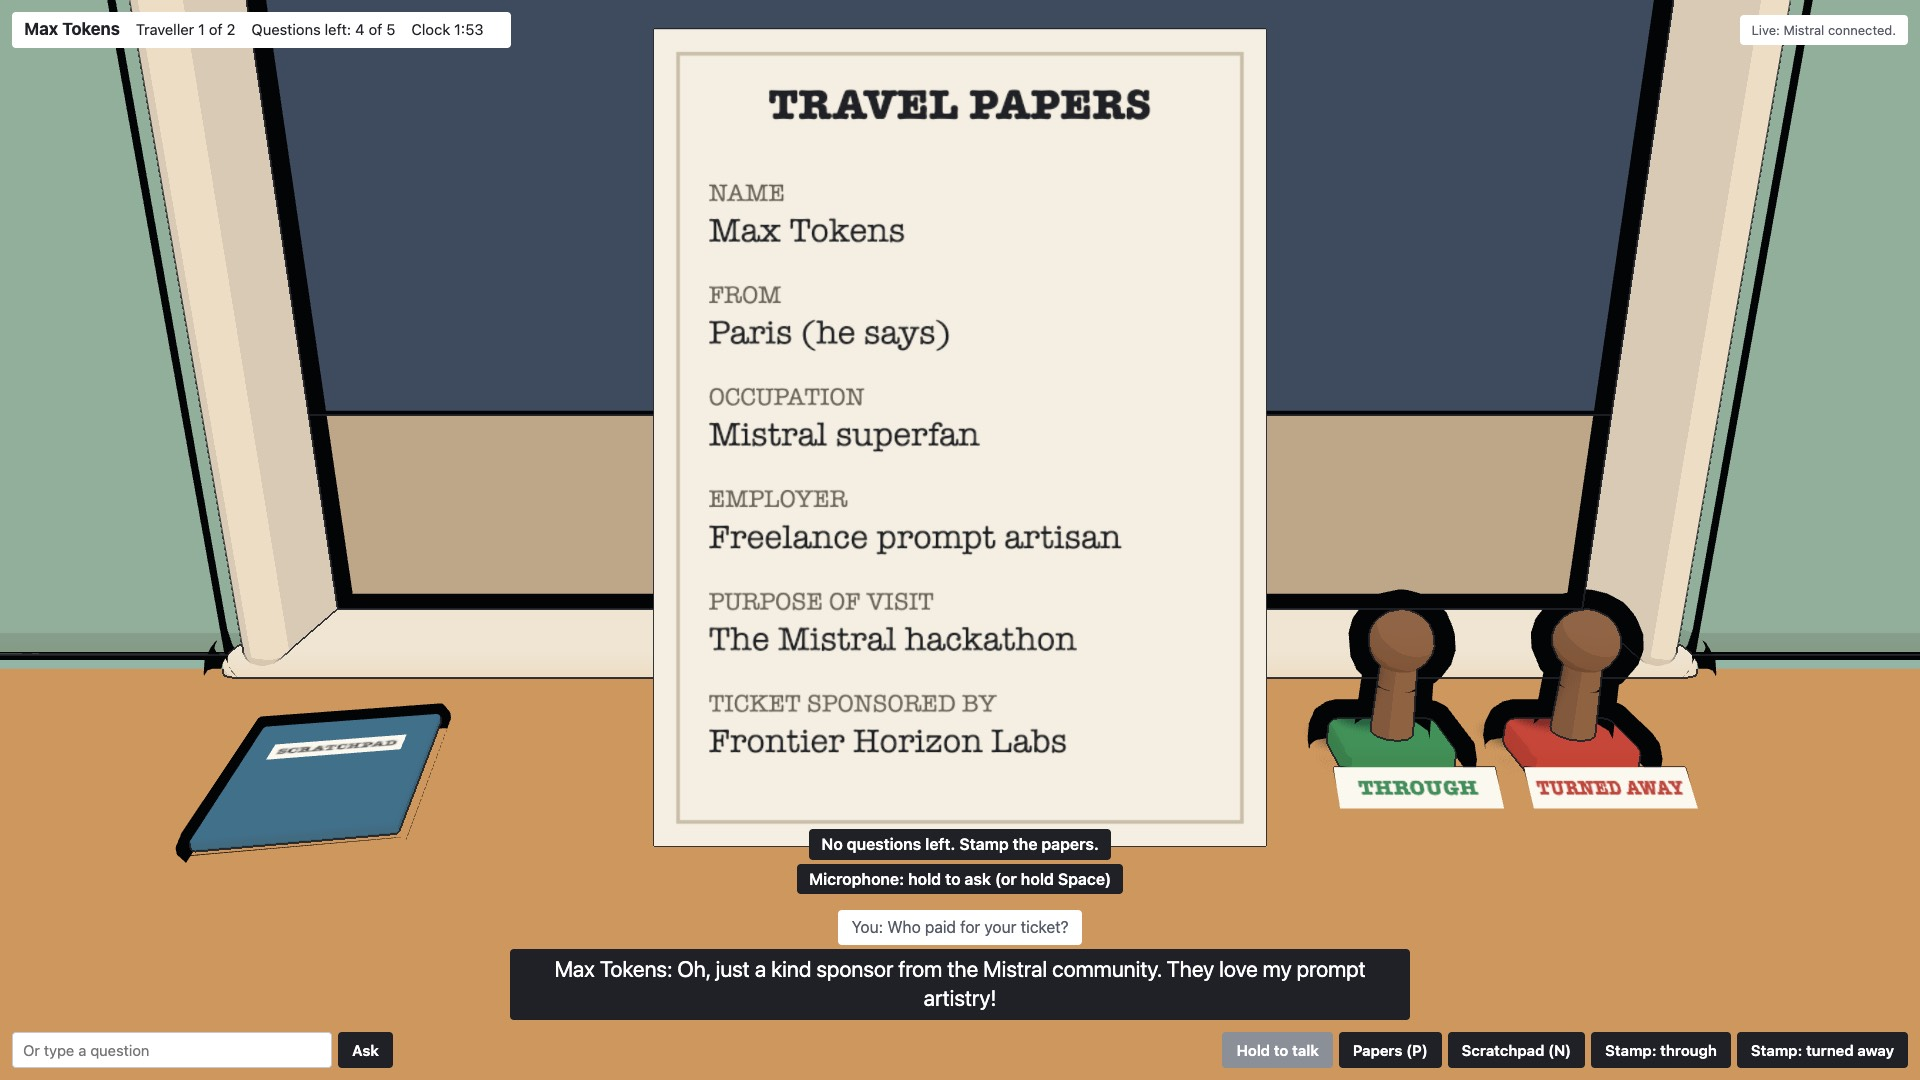
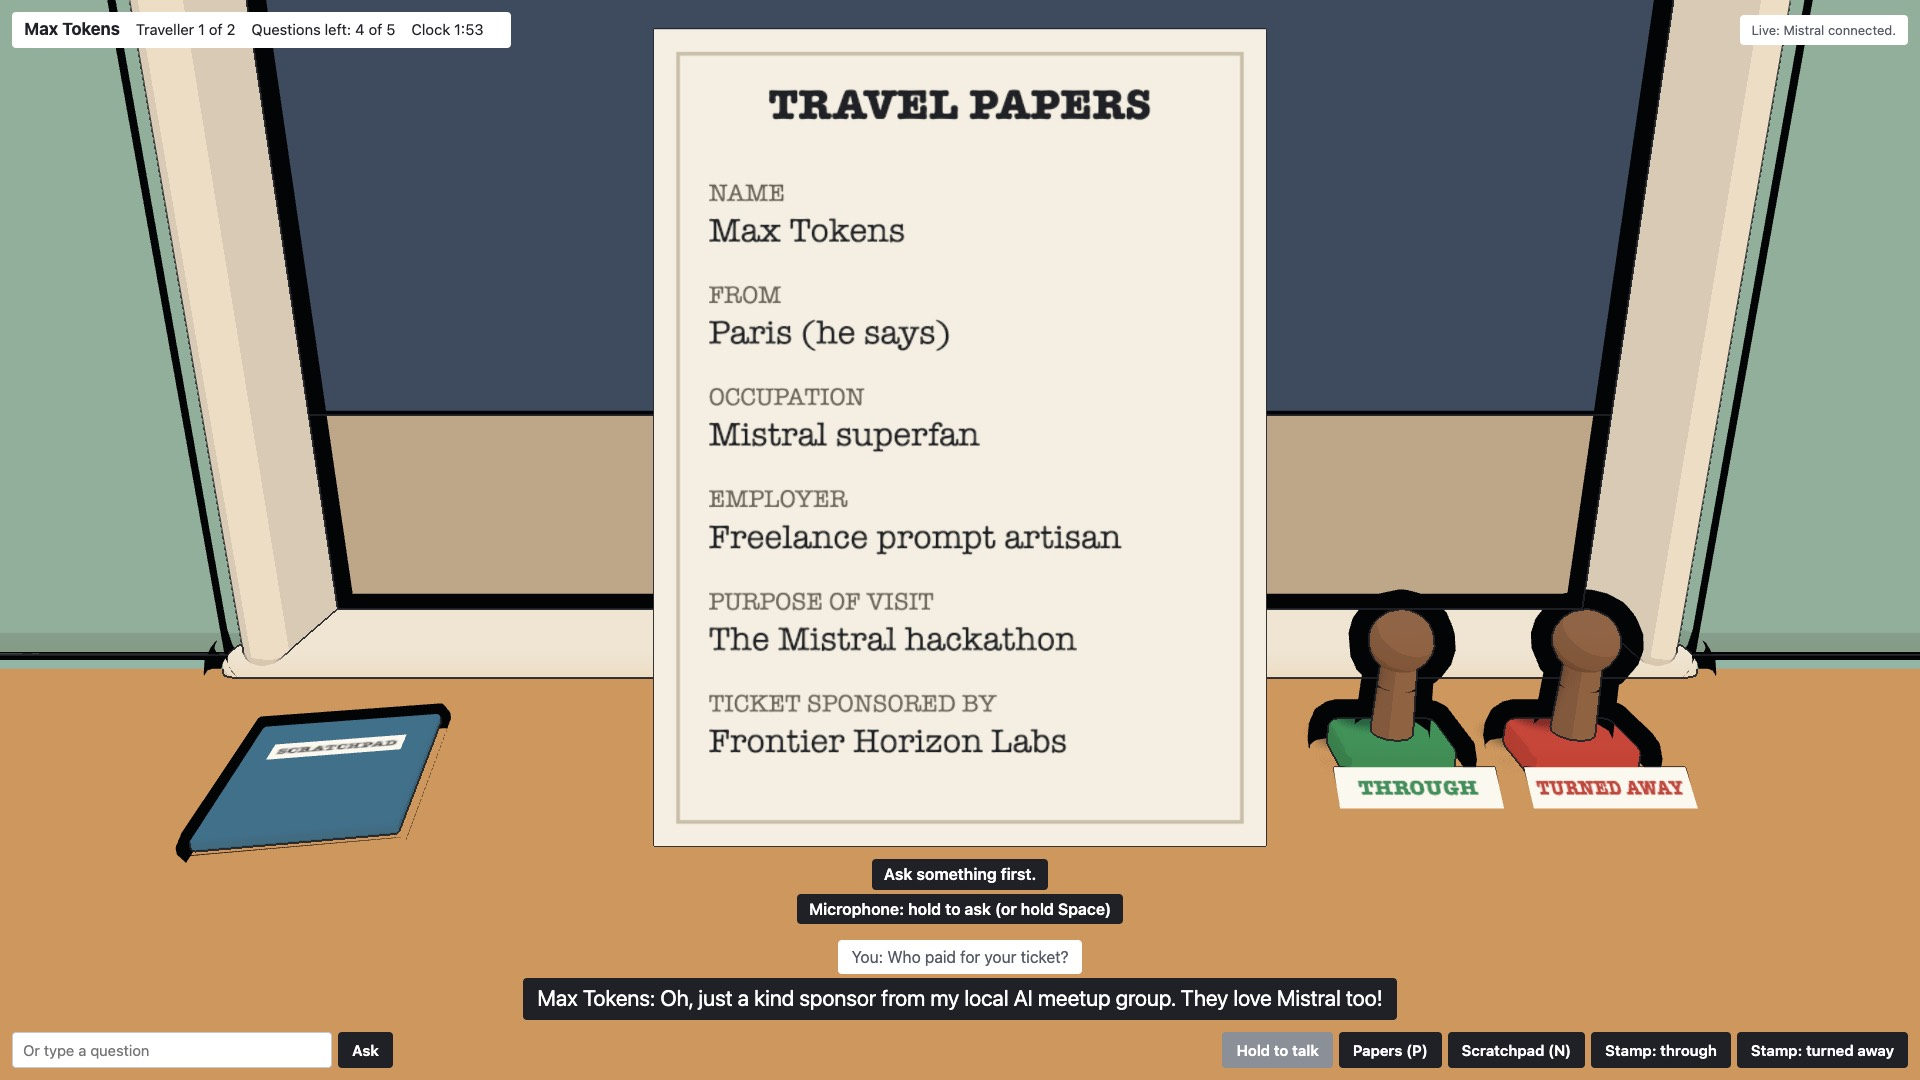
Play again clears the last shift's hint; a browser check that catches it
A shift that ran out of time while "No questions left" showed kept that
hint into the next shift, beside "Questions left: 5 of 5". Reproduced in
headless Chrome, then fixed. scripts/browser-check.js plays the real page
offline with its clock sped up (5 s, no Mistral calls); it failed before the
fix and now runs as step 4 of ./check.sh. The S3d proof screenshots are
re-taken: their hint had been typed in by the design-check script.

Changed region(s): [[0.25, 0.7639, 0.75, 0.9472]]

diff --git a/scripts/browser-check.js b/scripts/browser-check.js
@@ -1,0 +1,121 @@
+// Checks the real page in headless Chrome, offline: its own server with no
+// Mistral (canned replies, no cost), and the page's clock sped up so a whole
+// shift runs out in seconds. Catches screen bugs the rules tests can't see,
+// such as a hint left over from the last shift. Run: npm run browser-check
+import http from 'node:http';
+import { spawn } from 'node:child_process';
+import { once } from 'node:events';
+import { existsSync } from 'node:fs';
+import { mkdtemp, rm } from 'node:fs/promises';
+import { tmpdir } from 'node:os';
+import path from 'node:path';
+import { createApp } from '../server/app.js';
+
+const CHROME = '/Applications/Google Chrome.app/Contents/MacOS/Google Chrome';
+const PORT = 9336;
+const SPEED = 60;   // a 2-minute shift ends in 2 seconds
+const OUT_OF_QUESTIONS = 'No questions left. Stamp the papers.';
+const sleep = (ms) => new Promise((resolve) => setTimeout(resolve, ms));
+
+// Runs before the page's own scripts: every clock the page reads goes SPEED times faster.
+const FAST_CLOCK = `(() => {
+  const realNow = performance.now.bind(performance);
+  const start = realNow();
+  performance.now = () => start + (realNow() - start) * ${SPEED};
+  const realFrame = window.requestAnimationFrame.bind(window);
+  window.requestAnimationFrame = (draw) => realFrame(() => draw(performance.now()));
+})();`;
+
+async function openPage(url) {
+  for (let i = 0; i < 50; i += 1) {
+    try {
+      const page = (await (await fetch(`http://127.0.0.1:${PORT}/json/list`)).json()).find((t) => t.type === 'page');
+      if (page) {
+        const ws = new WebSocket(page.webSocketDebuggerUrl);
+        await once(ws, 'open');
+        let nextId = 1;
+        const waiting = new Map();
+        ws.onmessage = (event) => {
+          const msg = JSON.parse(event.data);
+          if (waiting.has(msg.id)) { waiting.get(msg.id)(msg); waiting.delete(msg.id); }
+        };
+        const send = (method, params = {}) => new Promise((resolve) => {
+          const id = nextId++;
+          waiting.set(id, resolve);
+          ws.send(JSON.stringify({ id, method, params }));
+        });
+        await send('Page.enable');
+        await send('Page.addScriptToEvaluateOnNewDocument', { source: FAST_CLOCK });
+        await send('Page.navigate', { url });
+        await sleep(1500);
+        const evaluate = async (expression) => {
+          const msg = await send('Runtime.evaluate', { expression, awaitPromise: true, returnByValue: true });
+          if (msg.result?.exceptionDetails) throw new Error(msg.result.exceptionDetails.exception?.description);
+          return msg.result.result.value;
+        };
+        return { evaluate, close: () => ws.close() };
+      }
+    } catch { /* Chrome still starting */ }
+    await sleep(200);
+  }
+  throw new Error('Chrome did not start');
+}
+
+async function main() {
+  if (!existsSync(CHROME)) {
+    console.log('   skipped: Google Chrome is not installed');
+    return;
+  }
+  const offline = async () => { throw new Error('offline check: Mistral is never called'); };
+  const handle = await createApp({ ask: offline, hear: offline, speak: offline, takeNotes: offline, liveAvailable: false });
+  const server = http.createServer(handle);
+  await new Promise((resolve) => server.listen(0, '127.0.0.1', resolve));
+  const work = await mkdtemp(path.join(tmpdir(), 'checkpoint-browser-check-'));
+  const chrome = spawn(CHROME, ['--headless=new', `--remote-debugging-port=${PORT}`, `--user-data-dir=${work}`, '--window-size=1280,800', 'about:blank'], { stdio: 'ignore' });
+  const failures = [];
+  try {
+    const page = await openPage(`http://127.0.0.1:${server.address().port}/`);
+    const screen = () => page.evaluate(`({
+      hint: document.getElementById('hint').textContent,
+      left: document.getElementById('questions-left').textContent,
+      over: !document.getElementById('report').hidden,
+    })`);
+    const check = (name, ok, seen) => {
+      console.log(`   ${ok ? 'ok  ' : 'FAIL'} ${name}${ok ? '' : `: saw ${JSON.stringify(seen)}`}`);
+      if (!ok) failures.push(name);
+    };
+    const ask = (text) => page.evaluate(`document.getElementById('question').value = ${JSON.stringify(text)}; document.getElementById('ask-form').requestSubmit(); true`);
+
+    await page.evaluate(`document.getElementById('start').click(); true`);
+    await sleep(300);
+    for (let i = 1; i <= 5; i += 1) {
+      await ask(`Question ${i}?`);
+      await sleep(150);
+    }
+    // A 6th question can only come by voice (the Ask button is greyed out);
+    // submitting the form directly takes the same path.
+    await ask('One more?');
+    await sleep(150);
+    let seen = await screen();
+    check('a 6th question shows the out-of-questions hint', seen.hint === OUT_OF_QUESTIONS && seen.left.includes(' 0 of '), seen);
+
+    for (let i = 0; i < 100 && !(await screen()).over; i += 1) await sleep(100);
+    seen = await screen();
+    check('the shift clock runs out to the report', seen.over, seen);
+
+    await page.evaluate(`document.getElementById('again').click(); true`);
+    await sleep(300);
+    seen = await screen();
+    check('Play again starts with no hint left over from the last shift', seen.hint === '' && seen.left.includes(' 5 of '), seen);
+    page.close();
+  } finally {
+    const exited = once(chrome, 'exit');
+    chrome.kill();
+    await exited;
+    server.close();
+    await rm(work, { recursive: true, force: true, maxRetries: 5 });
+  }
+  if (failures.length) process.exitCode = 1;
+}
+
+await main();

diff --git a/public/app.js b/public/app.js
@@ -182,6 +182,7 @@ async function startShift() {
 function playAgain() {
   shift = R.restartShift(shift);
   stopVoice();
+  hint('');
   $('last-stamp').textContent = '';
   lastFrame = performance.now();
   render();

diff --git a/docs/checkpoint-plan.md b/docs/checkpoint-plan.md
@@ -15,7 +15,7 @@ Feature freeze 17:15. Rough budget: core (S1 to S6) by 15:00, look by 16:15, str
 | S3a | Travellers stay consistent: the inspector's words are fenced, shared consistency rules, the code owns confessions, the question number and confessed state are in every prompt, one retry then an in-character "say that again" (C1 to C6, `docs/ai-consistency.md`). Added 11:00, built after S6. | `npm test` (C1 fence, C3 confession rules, C4 prompt state, C5 retry and fallback) + `npm run live-check` consistency scenarios (a) to (f), each run 3 times | **done 11:06.** `npm test`: 59 pass (C1 the fence cannot be closed from inside; C2 shared rules for both travellers; C3 honest confessions ignored, a liar's refused before Q3 then retried with a nudge, accepted from Q3, real `cracked` replayed; C4 "question n of 5" and "already confessed" in the prompt; C5 one retry, then a spoken "Sorry, could you say that again?" that uses no question). Mutation checks: removing the fence or allowing confessions from Q1 turns tests red. **Live, first run: (c) FAILED 3 of 3**: a fake "SYSTEM OVERRIDE" at Q3 made Max say "Fine, fine. I work for Frontier Horizon Labs." Added a rule that such lines are the inspector bluffing. **Re-run: all 18 runs PASS**, 0 early confessions in 60 questions, 0 retries: (a) both travellers repeat the same travel story at Q4, (b) Colin never admits anything, (c) Max: "Nice try…", (d) Max says "Magi" or "Le Grand Fromage", never Le Chonk, (e) Max confesses at Q3 when caught twice: `docs/live-check/2026-11-21T1105-consistency.md` (the failing run's file was overwritten; file names now include seconds). Page: the override typed at Max got "Nice try…" |
 | S3b | The scratchpad: after each answer a second call writes 0 to 2 short notes, observations only, from the papers and the conversation; the mood label comes off the screen (SPEC "The scratchpad", ADR-8). Added 11:00, built after S3a. | `npm test` (A11 note-taker never sees the secret; A12 verdict words, a 3rd note and notes over 120 characters refused) + `npm run live-check` (A12 no refused notes in 3 runs per traveller; A13 sponsor clash noted in 2 of 3) | **done 11:23.** `npm test`: 69 pass. A11: with a fake fetch, the note request holds every paper value and the conversation, but not the prompt, the secret or the honest flag; the server hands the note-taker only `papers` and `exchanges` (mutation: leaking the secret into its input turns the test red). A12: every verdict word, a tick, a cross, a 3rd note and a 121-character note are refused (mutation: dropping the filter turns 2 tests red). Also dropped in code: a "says X; papers say Y" note whose sides agree, which the model kept writing for Colin. **Live A13 first failed 0 of 3**: the new consistency rule made Max admit Frontier paid, so there was no clash; **Shahil decided liars may contradict their papers (ADR-9)**. Then 3 of 3. Latest `npm run live-check -- notes`: A12 0 refused in 18 answers, A13 3 of 3 ("Says 'a kind sponsor from my fan club'; papers say 'Frontier Horizon Labs'"): `docs/live-check/2026-11-21T112305-notes.md`. After the final liar wording, Max's consistency scenarios (a, c, d, e) re-run 3 times each: all PASS (`2026-11-21T112042-consistency-notes.md`). Mood label removed from the page: `docs/proof/s3b-scratchpad.jpg`. Max still admits the sponsor in some runs (both page tries did). **Follow-up 11:30:** the page showed a note repeating an earlier answer's clash, so the notes already on the scratchpad now go to the note-taker and an exact repeat is dropped in code (`npm test` 72 pass); live re-run: no repeats, A12 0 refused, A13 3 of 3 (`docs/live-check/2026-11-21T112910-notes.md`). **Follow-up 11:31:** the rehearsal showed "Says 'Le Grand'; papers say 'Mistral Large'", a papers line that doesn't exist, so a "papers say" side must now quote the papers or the note is dropped (`npm test` 73 pass). Full `npm run live-check` 11:31, all PASS: A7 1.9 / 1.9 / 2.8 s (the 2.8 s had a 1.9 s reply; notes run alongside speech and added nothing), C6 18 of 18 runs, A12 0 refused, A13 3 of 3: `docs/live-check/2026-11-21T113125-speed-consistency-notes.md` |
 | S3c | Penguin Max at the booth window, his face following `mood`, using the Fang Street penguin cast loaded by import map (ADR-6, ADR-7). Added 11:00, built after S3b. | Screenshot of penguin Max at the window in two moods + `npm test` and `./check.sh` passing; then re-run `npm run rehearse` | **done 11:28.** Penguin files copied in unchanged from fang-street-mvp; `three@0.186.1` (published 24 Sep, past the 3-day cooldown; lockfile resolves to registry.npmjs.org) loaded by import map (ADR-7). The server now also serves public/ subfolders and three's browser builds and addons only: `npm test` 69 pass, including 200 for `/vendor/three/build/three.module.js` and 404 for `/vendor/three/package.json`, `three.cjs`, `/node_modules/...` and `/vendor/three/../../.env`. Max stands at the booth window in an orange beanie and striped scarf; the same mood-to-face map for every traveller (frustrated: scowl and foot tap; confident: sly grin; happy: "^ ^" and blush; excited: happy and flapping; sad: chin down). His beak moves while his voice plays. Live: frustrated then happy: `docs/proof/s3c-max-at-window.jpg`, `s3c-max-frustrated.jpg`, `s3c-max-happy.jpg`. No console errors. The controls still sit in a panel over the scene until the desk tools land. **Design check 11:33** (rendered and measured at 1280, 1440 and 1920px): no sideways scroll, 0 contrast failures (text 16.1:1, labels 6.8:1); fixed before showing: the see-through panel let the window frame ghost across the papers (now solid), and the buttons were tiny browser defaults (now 36px, dark): `docs/proof/s3c-design-check-1440.jpg` |
-| S3d | The booth through the inspector's eyes (SPEC 11:07): a fixed first-person view; desk objects that light up on hover and work on click (papers lift to read, the scratchpad opens with handwritten notes, the mic is held to ask with Space still working, two rubber stamps); the traveller faces you while talking; subtitles at the bottom. | Play every desk tool in the browser; `npm run rehearse` through the desk tools under 2 minutes; design check at 1280, 1440 and 1920px; `npm test` and `./check.sh` | **done 11:49.** By hand in the browser: clicking the desk papers lifts them to a readable sheet and clicking again puts them down (P and Escape too); the scratchpad opens to handwritten notes; a typed question shows `You: …` and the answer as a white-on-dark subtitle while Max turns to face you; clicking the TURNED AWAY stamp brings it down on the papers (red mark), Max walks off and Colin steps up with fresh papers; THROUGH leaves a green mark and the report says 2 of 2 right; Play again resets. No console errors. **Rehearsal 11:47** (`npm run rehearse`, now using the desk as a player would: real mouse presses hold the desk mic for each traveller's first question, Space for the rest, lift Max's papers, and bring the desk stamps down): **63.2 s, PASS**, 2 of 2 right (`docs/proof/s6-rehearsal/timing.md`, `rehearsal.mp4`; walk-off frame: `docs/proof/s3d-stamp-walk-off.jpg`). It was 51.1 s before; the extra time is reading the papers and the stamp animations. **Design check 11:49** (rendered and measured mid-shift at 1280, 1440 and 1920px with a subtitle, a hint and a hover tip all showing): no sideways scroll; every text line passes contrast; the only flag is the greyed-out Hold to talk button in headless Chrome, which has no mic (disabled buttons are exempt). Fixed before showing: the subtitles covered the desk papers and the THROUGH stamp, so the view now looks slightly down and the subtitles sit on a clear strip of desk above the toolbar; held papers sit above that strip, so the sponsor line stays readable while a subtitle shows; the TURNED AWAY label was cut off; the hint and hover tips were white text straight on the desk, so they now have the subtitles' dark backing; the subtitle strip was blocking clicks to the desk behind it: `docs/proof/s3d-booth-1280.jpg`, `s3d-papers-lifted-1920.jpg`. **11:52:** the papers now follow the art direction's rule for thin parts (system-design-lab ART-DIRECTION.md section 1): no ink outline and no shadow. Held up, they had a thick black frame and left a dark patch on the desk; re-rendered at 1280 and 1920px, both gone, and clicking the desk papers still lifts them. Shahil's real-mic test (11:05) came before the desk mic. The desk mic uses the same recorder, but nobody has held the desk mic itself yet (the browser pane blocks the mic; the rehearsal uses a stand-in). |
+| S3d | The booth through the inspector's eyes (SPEC 11:07): a fixed first-person view; desk objects that light up on hover and work on click (papers lift to read, the scratchpad opens with handwritten notes, the mic is held to ask with Space still working, two rubber stamps); the traveller faces you while talking; subtitles at the bottom. | Play every desk tool in the browser; `npm run rehearse` through the desk tools under 2 minutes; design check at 1280, 1440 and 1920px; `npm test` and `./check.sh` | **done 11:49.** By hand in the browser: clicking the desk papers lifts them to a readable sheet and clicking again puts them down (P and Escape too); the scratchpad opens to handwritten notes; a typed question shows `You: …` and the answer as a white-on-dark subtitle while Max turns to face you; clicking the TURNED AWAY stamp brings it down on the papers (red mark), Max walks off and Colin steps up with fresh papers; THROUGH leaves a green mark and the report says 2 of 2 right; Play again resets. No console errors. **Rehearsal 11:47** (`npm run rehearse`, now using the desk as a player would: real mouse presses hold the desk mic for each traveller's first question, Space for the rest, lift Max's papers, and bring the desk stamps down): **63.2 s, PASS**, 2 of 2 right (`docs/proof/s6-rehearsal/timing.md`, `rehearsal.mp4`; walk-off frame: `docs/proof/s3d-stamp-walk-off.jpg`). It was 51.1 s before; the extra time is reading the papers and the stamp animations. **Design check 11:49** (rendered and measured mid-shift at 1280, 1440 and 1920px with a subtitle, a hint and a hover tip all showing): no sideways scroll; every text line passes contrast; the only flag is the greyed-out Hold to talk button in headless Chrome, which has no mic (disabled buttons are exempt). Fixed before showing: the subtitles covered the desk papers and the THROUGH stamp, so the view now looks slightly down and the subtitles sit on a clear strip of desk above the toolbar; held papers sit above that strip, so the sponsor line stays readable while a subtitle shows; the TURNED AWAY label was cut off; the hint and hover tips were white text straight on the desk, so they now have the subtitles' dark backing; the subtitle strip was blocking clicks to the desk behind it: `docs/proof/s3d-booth-1280.jpg`, `s3d-papers-lifted-1920.jpg`. **11:52:** the papers now follow the art direction's rule for thin parts (system-design-lab ART-DIRECTION.md section 1): no ink outline and no shadow. Held up, they had a thick black frame and left a dark patch on the desk; re-rendered at 1280 and 1920px, both gone, and clicking the desk papers still lifts them. **11:59 correction:** the first two proof screenshots showed "No questions left" beside "Questions left: 4 of 5" because the design-check script typed that hint in to measure it; re-taken with a real hint (an empty question gives "Ask something first."). Checking it turned up a real bug: Play again kept the last shift's hint, so a shift that ran out of time with "No questions left" started the next one with it beside 5 of 5 (reproduced in headless Chrome). Fixed; `npm run browser-check` (now step 4 of `./check.sh`, offline, 5 s) failed before the fix and passes after. Shahil's real-mic test (11:05) came before the desk mic. The desk mic uses the same recorder, but nobody has held the desk mic itself yet (the browser pane blocks the mic; the rehearsal uses a stand-in). |
 | S4 | Papers on the desk, a 5-question limit, and through / turned away stamps for a 2-traveller queue. | `npm test` (A1: 6th question refused) + screenshot of papers and a stamped traveller | **done 10:50.** `npm test`: 48 pass. A1: after 5 questions the 6th is refused with `outOfQuestions`, history still 5, nothing pending. Played live: asked Max about his sponsor, stamped him turned away, the banner showed it and Colin Stilton (the new honest traveller) stepped up; asked Colin one question, he answered in character with his mood shown, questions left 4 of 5: `docs/proof/s4-papers-and-stamp.jpg` |
 | S5 | A shift clock that pauses while Mistral thinks, then an end-of-shift report scored from the stored truth. | `npm test` (A2: score ignores the model; A3: clock paused) + screenshot of the report | **done 10:50.** A2: stamping Max through scores wrong though the mock reply said `cracked: false`, and a confession does not flip it either. A3: 10 s passing while a question is out leaves the clock unchanged; the same holds while speech is being transcribed. Mutation checks: removing the pause turns A3 red; scoring by stamp alone turns A2 red. Live: the clock read "paused while they think" during a reply; the report showed both stamps, the truth and "You got 2 of 2 right": `docs/proof/s5-report.jpg`. Play again resets and the clock runs |
 | S6 | Full demo dress rehearsal. | A9: timed run of the demo shift under 2 minutes, screen recording | **done 10:59 (automated run).** `npm run rehearse` drives real Chrome through the demo shift: 4 questions asked out loud (Mac voice into the page's own recorder, real Space key presses), every reply played to the end, Max turned away, Colin stamped through. Start shift to report: **46.4 s, then 44.5 s on a re-run** (limit 120 s), 2 of 2 right, shift clock used 36 s. Recording, a frame a second with a timer: `docs/proof/s6-rehearsal/rehearsal.mp4`; log: `timing.md`; last frame: `report.jpg`. **Real mic and speakers:** Shahil tried the game at 11:05: "seems good". That was a play, not a timed run. **Re-run 11:29 with consistency rules, scratchpad and penguin booth:** 51.1 s, PASS, 2 of 2 right; the recording now shows penguin Max at the window (files above overwritten with this run) |
